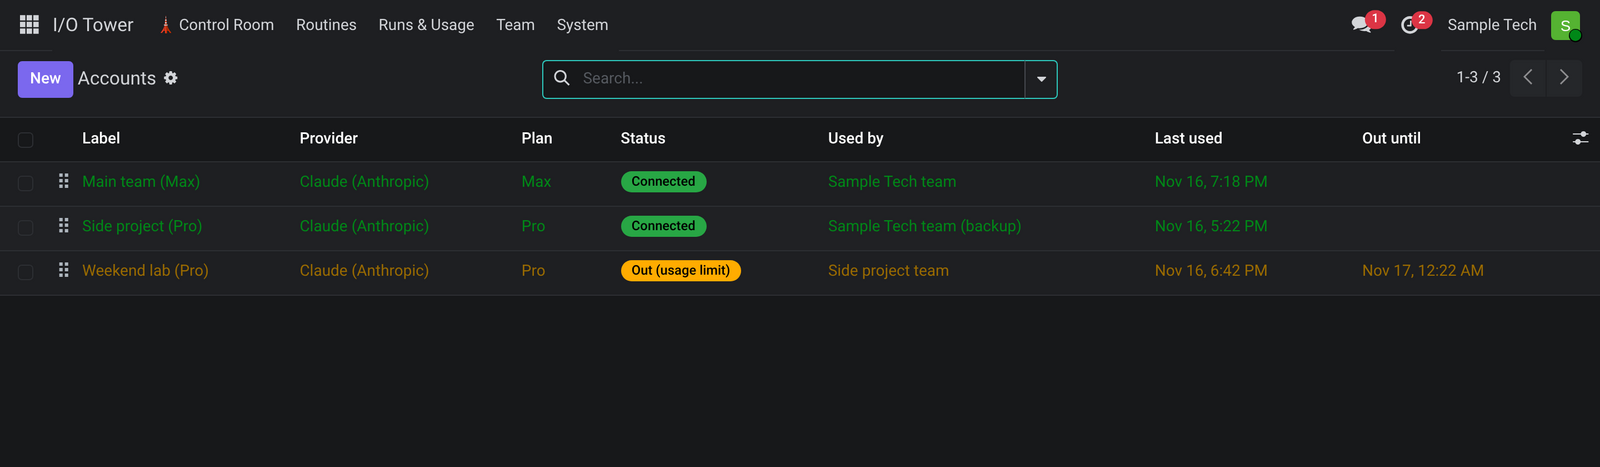
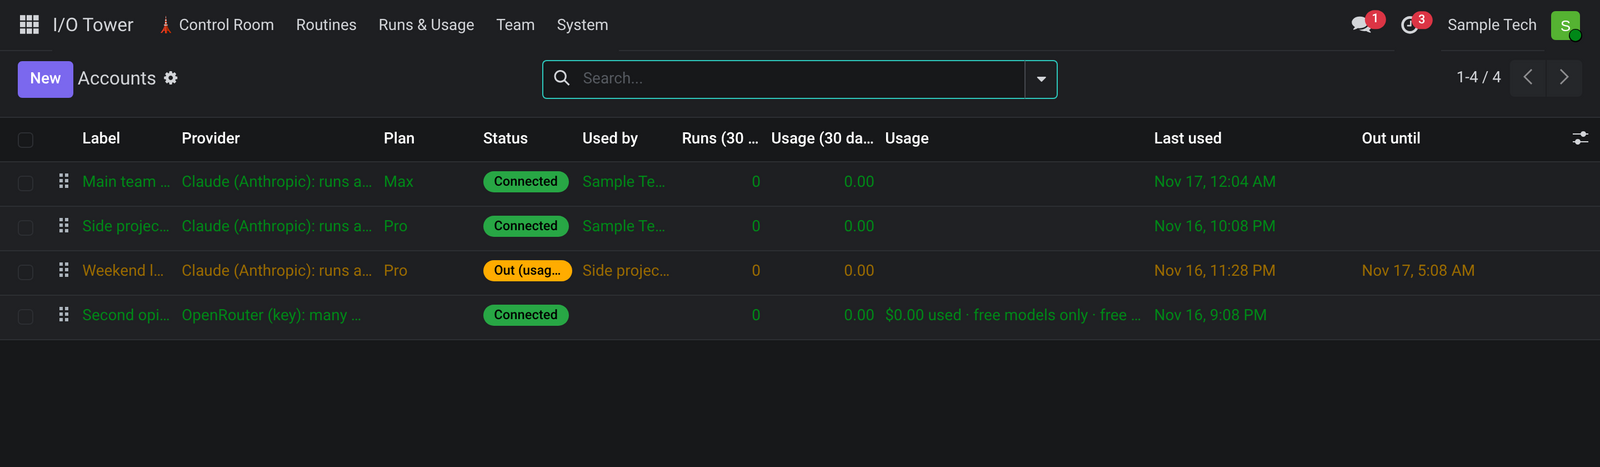
Show key accounts and per-card account choice on the IO Tower page

diff --git a/projects/io-tower.md b/projects/io-tower.md
@@ -105,6 +105,11 @@ answers right there in the thread. No new app to learn: the team lives where you
   work moves to the backup by itself, and the list shows when the first one is back.
 - **Keys never leave the server.** Odoo only shows each account's label and whether it is connected, out for now or
   needs reconnecting. Leave the choice blank and a team keeps running exactly as before.
+- **Add a key for other AI models,** such as an OpenRouter key: paste it once and the page shows what it has used.
+  The team can then ask another model for a second opinion or a fresh angle, while every team still runs on its own
+  account. Free models work with no credit at all.
+- **Pick an account for one job.** Choose an account on a single card, or just say "run this one on" an account, and
+  only that job uses it.
 
 ![Picking a team's account and backup in the Control Room](../assets/accounts/control-room-light.png)
 

diff --git a/CHANGELOG.md b/CHANGELOG.md
@@ -4,6 +4,9 @@ Newest first. Plain English.
 
 ## Unreleased
 
+- **IO Tower: Accounts, two more things.** Add a key for other AI models (such as OpenRouter) for second
+  opinions, and pick an account for one card or one job. The Accounts list screenshot now shows a sample key
+  account. Sample data only.
 - **Quorra and Uplink: first screenshots.** Quorra shows the shared browser with a named, colored workspace for each
   job, in Light and Dark, and one job's workspace open. Uplink shows its home screen and the list of teams on a sample
   phone. Sample data only.
